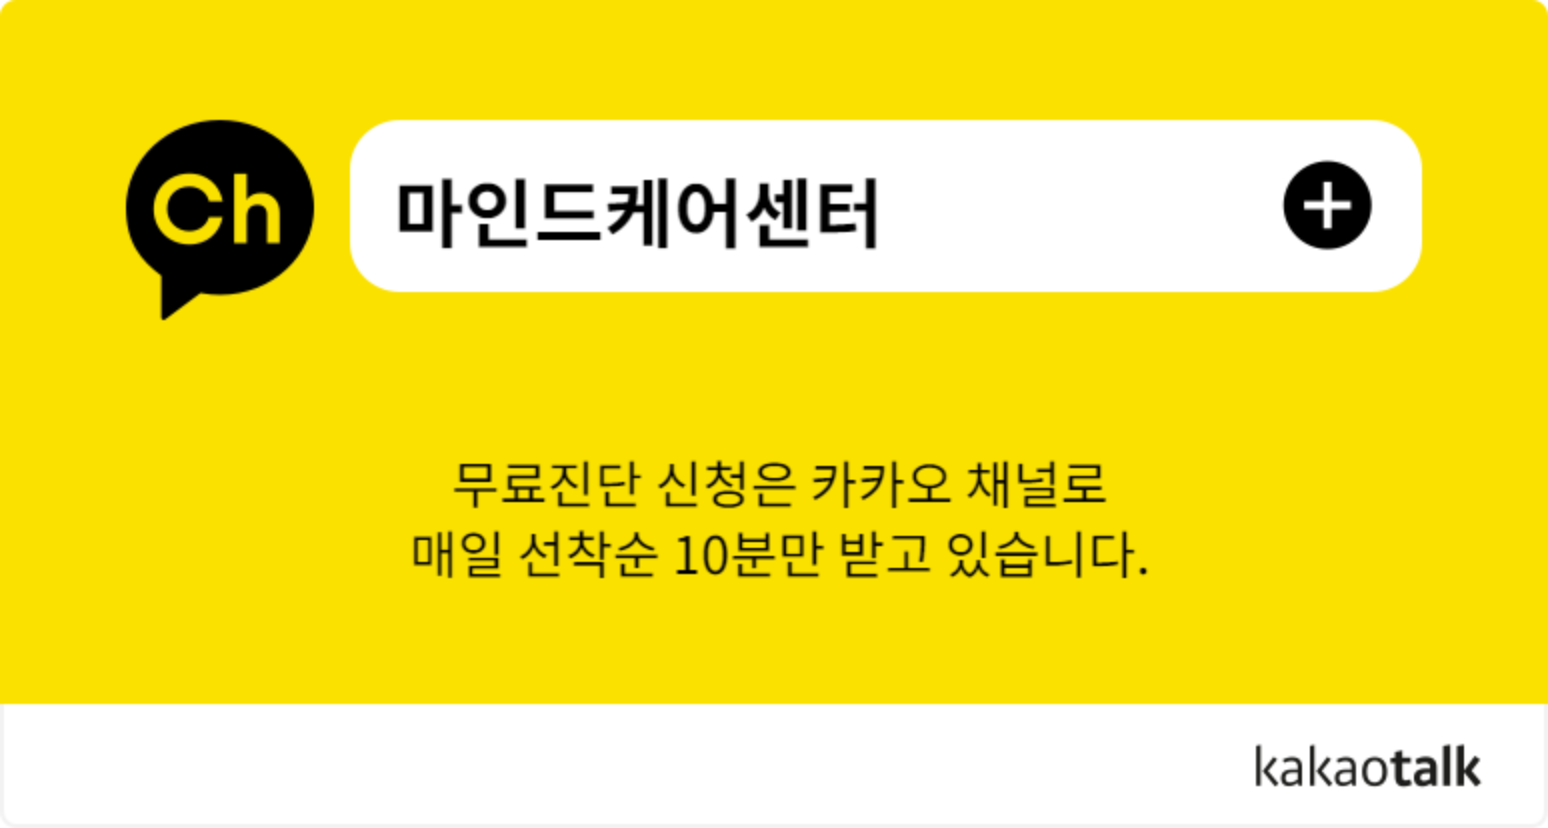
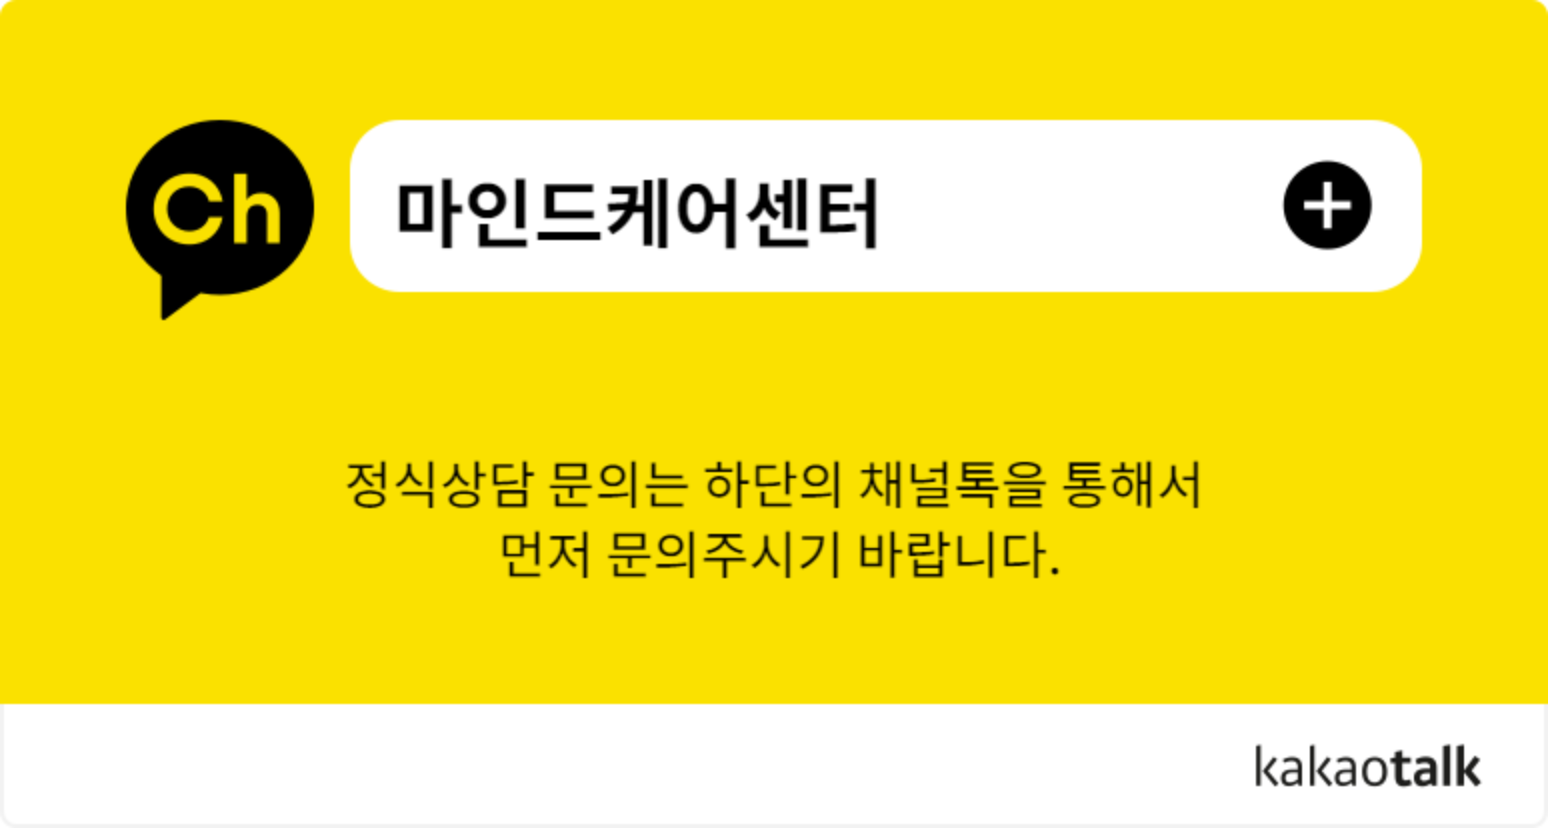
무료진단 문구삭제

Changed region(s): [[0.2171, 0.5435, 0.7752, 0.7246]]

diff --git a/container/reservation/FaqAccodion.js b/container/reservation/FaqAccodion.js
@@ -58,7 +58,7 @@ function FaqAccodion() {
       ),
     },
     {
-      title: "무료진단은 무엇인가요? 정식상담과 무엇이 다른가요?",
+      title: "정식상담 문의는 무엇인가요?",
       text: (
         <p>
           정식상담에 앞서, 내담자분들은 선생님들이 어떤 분들이신지,
@@ -71,22 +71,23 @@ function FaqAccodion() {
           내담자분들은 어떤 상담을 받을 것인지를 알아야 합니다.
           <br />
           <br />
-          이러한 첫 만남이 바로 무료진단입니다.
+          이러한 첫 만남이 바로 정식상담 문의입니다.
           <br />
-          무료진단을 통해, 서로에 대해 알게 되며 이후 정식상담을 진행할지를
+          정식상담 문의을 통해, 서로에 대해 알게 되며 이후 정식상담을 진행할지를
           판단하게 됩니다.
           <br />
           <br />
-          무료진단은 비교적 짧은 시간 (15분 ~ 20분)동안 이루어지며, <br />
+          정식상담 문의은 비교적 짧은 시간 (15분 ~ 20분)동안 이루어지며, <br />
           현재상황진단, 앞으로의 상담안내에 대한 이야기를 해드리며, <br /> 어떤
           도움을 받으실 수 있을지에 대해 이해하는 시간입니다.
           <br />
           <br />
           이후 정식상담 신청을 통해 본격적으로 도움을 받으실 수 있습니다.
-          <br /> 무료진단 진행시, 상담신청게시판에 상담내용을 적어주시고 <br />
+          <br /> 정식상담 문의 진행시, 상담신청게시판에 상담내용을 적어주시고{" "}
+          <br />
           (상담내용은 비밀글로 본인과 담당선생님외에는 누구도 볼 수 없게
           저장됩니다.) <br />
-          시간약속을 잡고 무료진단이 진행됩니다.
+          시간약속을 잡고 정식상담 문의가 진행됩니다.
           <br />
           <br />
         </p>

diff --git a/pages/index.js b/pages/index.js
@@ -167,17 +167,17 @@ export default function Home() {
               <div className="col-sm-6 col-md-6 col-lg-6">
                 <p className="subtitle-01">FREE COUNSULTING</p>
                 <h3 className="title-02 title-comm">
-                  유료상담 전 <span>무료진단</span>
+                  유료상담 전 <span>정식상담 문의</span>
                 </h3>
                 <div className="counselling-text-01">
                   <p>
                     본격적인 상담에 앞서, 내담자가 가지고 있는 문제상황을 미리
-                    파악하고, 보다 효과적인 상담방법을 적용하기 위해 무료진단을
-                    진행합니다. 나의 삶을 긍정적으로 이끌고 행복을 찾고
-                    싶으시다면 무료진단부터 받아보세요!
+                    파악하고, 보다 효과적인 상담방법을 적용하기 위해 정식상담
+                    문의를 진행합니다. 나의 삶을 긍정적으로 이끌고 행복을 찾고
+                    싶으시다면 정식상담 문의부터 받아보세요!
                     <br />
                     <span style={{ fontSize: "15px" }}>
-                      *무료진단은 카톡으로 신청되며, 약 10분간 유선상으로
+                      *정식상담 문의는은 카톡으로 신청되며, 약 10분간 유선상으로
                       진행됩니다.
                     </span>
                   </p>
@@ -186,7 +186,7 @@ export default function Home() {
                   className="counselling-btn cursor"
                   onClick={() => ChannelIO("show")}
                 >
-                  무료진단 및 정식 상담 문의
+                  정식 상담 문의
                 </span>
               </div>
               <div className="col-sm-6 col-md-6 col-lg-6">

diff --git a/pages/reservation.js b/pages/reservation.js
@@ -52,9 +52,9 @@ const reservation = () => {
                   <p>
                     심리상담신청 게시판에 상담 신청글을 양식에 맞게 올려주시고,
                     카카오 채널로 말씀주시면, 선생님들이 확인 후 연락을 드리고
-                    있습니다. 무료진단 후 정규 상담 및 코칭을 선택, 결제 하시면
-                    예약이 완료되며, 선생님과의 시간 조율 후 예약된 시간에 상담
-                    및 코칭이 진행됩니다.
+                    있습니다. 정식상담 문의 후 정규 상담 및 코칭을 선택, 결제
+                    하시면 예약이 완료되며, 선생님과의 시간 조율 후 예약된
+                    시간에 상담 및 코칭이 진행됩니다.
                   </p>
                 </div>
                 <div className="counter-01">

diff --git a/components/Freebanner.js b/components/Freebanner.js
@@ -8,7 +8,7 @@ function Freebanner() {
           <div className="col-lg-12">
             <div className="action-box-01__wrapp">
               <h3 className="action-box-01__title title-comm2">
-                매일 선착순 10분 무료진단!{" "}
+                정식 상담 문의!{" "}
                 <span className="title-comm2 blockel">
                   마인드케어센터 카톡채널
                 </span>
@@ -23,7 +23,7 @@ function Freebanner() {
                 className="action-box-01__btn cursor"
                 onClick={() => ChannelIO("show")}
               >
-                무료진단 & 정규상담 문의
+                정식상담 문의
               </span>
             </div>
           </div>

diff --git a/components/common/Footer.js b/components/common/Footer.js
@@ -100,12 +100,10 @@ const Footer = () => {
             </div>
             <div className="col-sm-3 col-md-3 col-lg-3">
               <div className="widget widget-latest-news">
-                <h3 className="widget-title">
-                  무료진단신청 및 정식상담문의 안내
-                </h3>
+                <h3 className="widget-title">정식상담 문의 안내</h3>
                 <ul className="widget-contacts__list">
                   <li>
-                    무료진단신청 및 정식상담문의
+                    정식상담 문의
                     <br />
                     <span>10.00 AM</span> ~<span>10.00 PM</span>
                     <br />

diff --git a/pages/register.js b/pages/register.js
@@ -97,7 +97,9 @@ export default function Register({ providers, csrfToken }) {
             })}
           />
           {errors.phone && errors.phone.type === "required" && (
-            <p>무료진단 및 상담진행을 위해 연락처가 필요합니다.</p>
+            <p>
+              정식상담 문의 진행 및 정식상담진행을 위해 연락처가 필요합니다.
+            </p>
           )}
           {errors.phone && errors.phone.type === "pattern" && (
             <p>연락처는 01012345678 처럼 숫자로만 입력해주세요.</p>

diff --git a/container/reservation/StrengthTab.js b/container/reservation/StrengthTab.js
@@ -15,7 +15,7 @@ function StrengthTab() {
             상담이 진행되고 있습니다.
           </p>
           <ul className="list-01 list-01--style-01">
-            <li>정식 컨설팅 전 무료진단을 통해 도움을 드리고 있습니다.</li>
+            <li>정식 상담 전 정식상담 문의를 통해 도움을 드리고 있습니다.</li>
             <li>
               언제 어디서나 온라인으로 사연을 올리면 최대한 빠른 시간내에
               상담선생님들이 도움을 주실 준비를 하게 됩니다.

diff --git a/components/common/Header.js b/components/common/Header.js
@@ -55,7 +55,7 @@ function Header() {
                 )}
               </div>
               <span className="btn-app" onClick={() => ChannelIO("show")}>
-                무료진단 &amp; 정규상담 문의
+                정식상담 문의
               </span>
             </div>
           </div>
